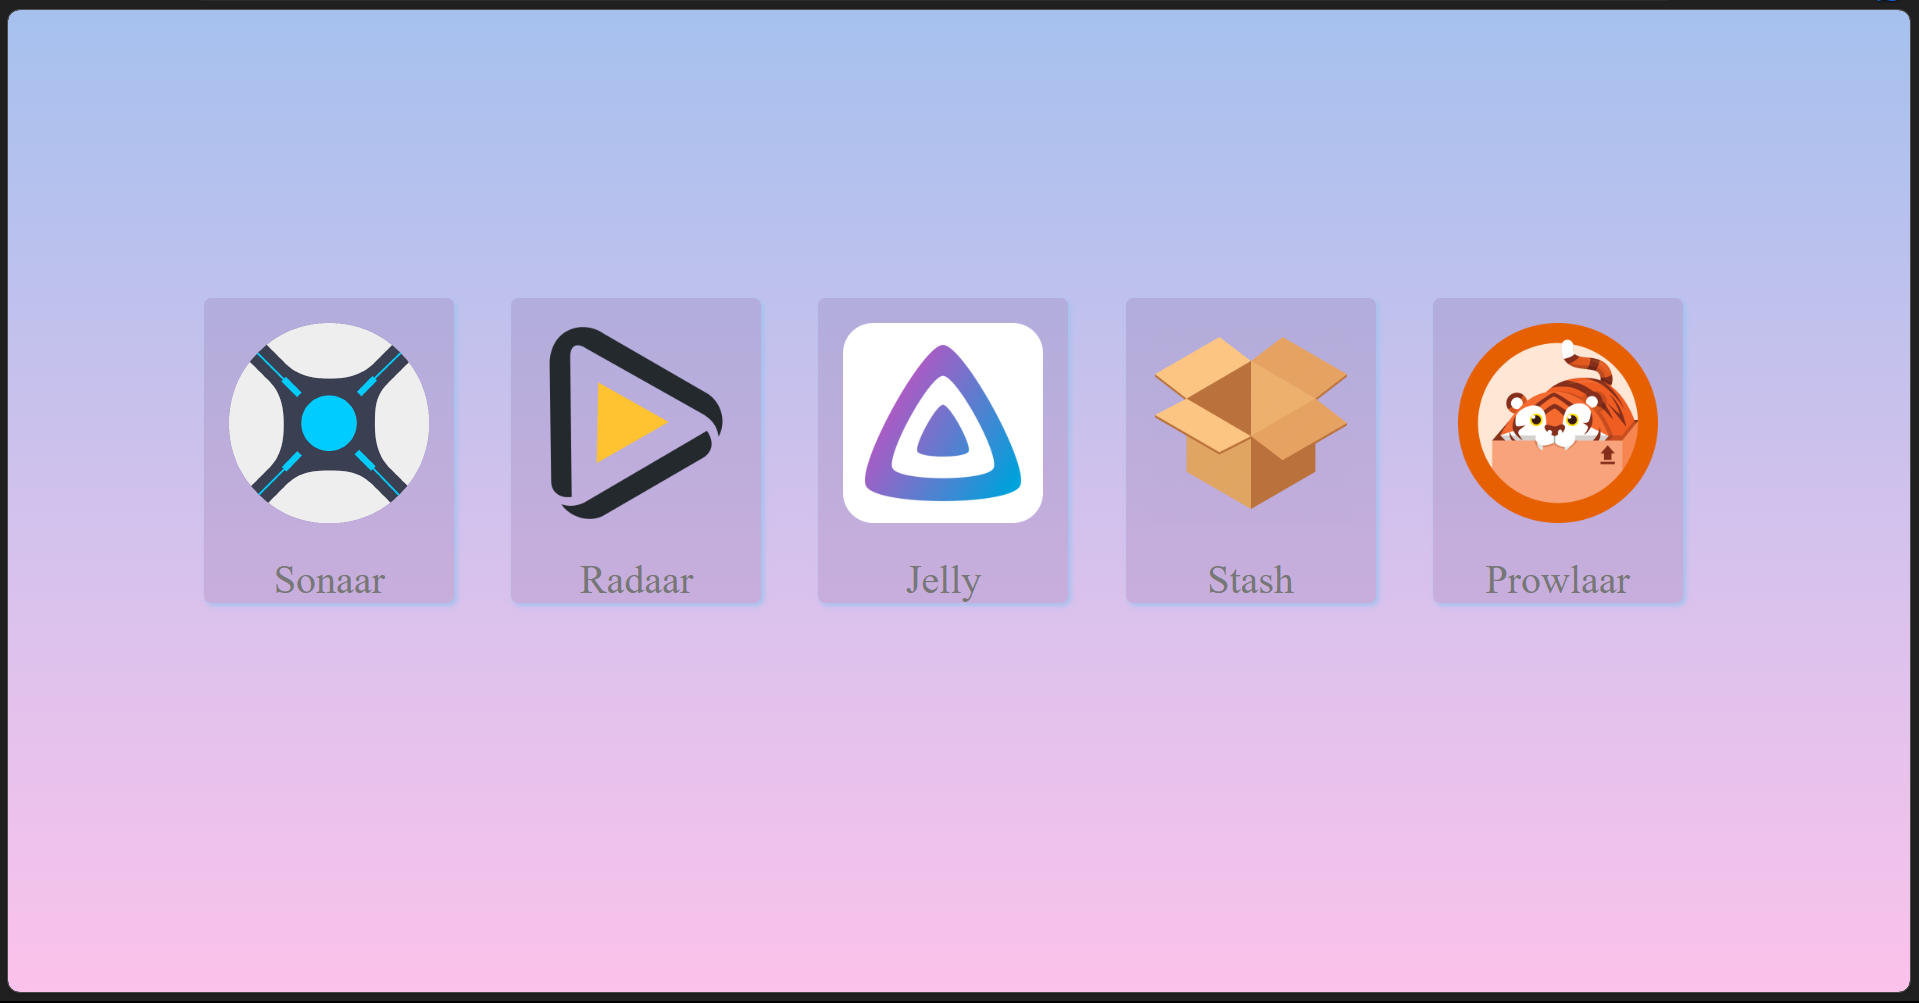
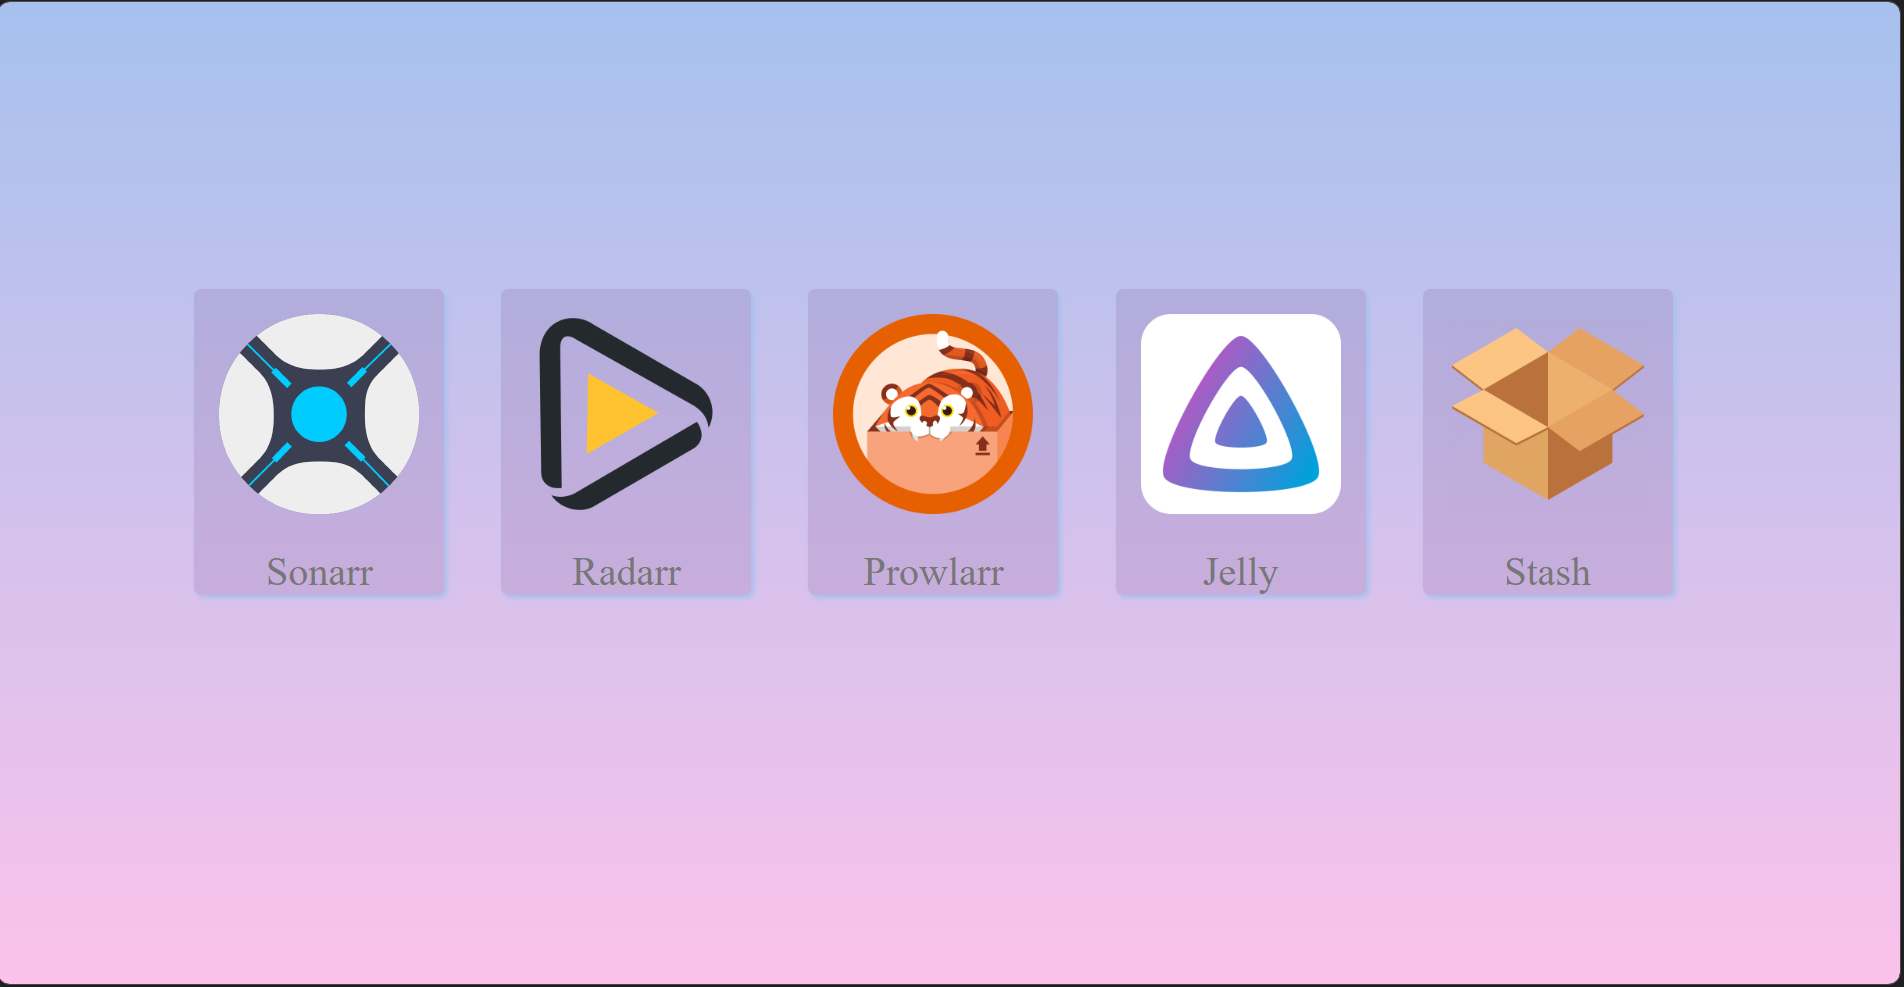
fixed aar to arr

diff --git a/README.md b/README.md
@@ -3,9 +3,9 @@
 ![sample image](static/manager.png)
 Localhost Manager is a collection of services that can be used to manage media files on your local machine. The following services are included:
 
-- **Sonaar**: A TV show management tool.
-- **Radaar**: A movie management tool.
-- **Prowlaar**: A music management tool.
+- **Sonarr**: A TV show management tool.
+- **Radarr**: A movie management tool.
+- **Prowlarr**: A music management tool.
 - **Jelly**: A media server that streams movies, TV shows and music to clients.
 - **Stash**: A password manager tool.
 
@@ -43,9 +43,9 @@ This will start all the services in the background.
 
 4. To access each service, open a web browser and navigate to the URLs listed below:
 
-- Sonaar: http://localhost:8989/
-- Radaar: http://localhost:7878/
-- Prowlaar: http://localhost:9696/
+- Sonarr: http://localhost:8989/
+- Radarr: http://localhost:7878/
+- Prowlarr: http://localhost:9696/
 - Jelly: http://localhost:8096/
 - Stash: http://localhost:9999/
 
